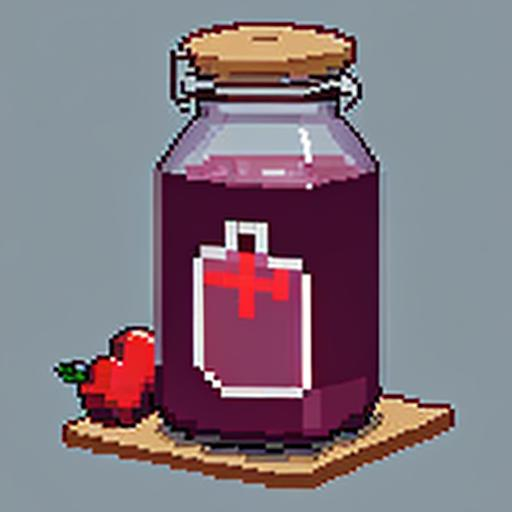
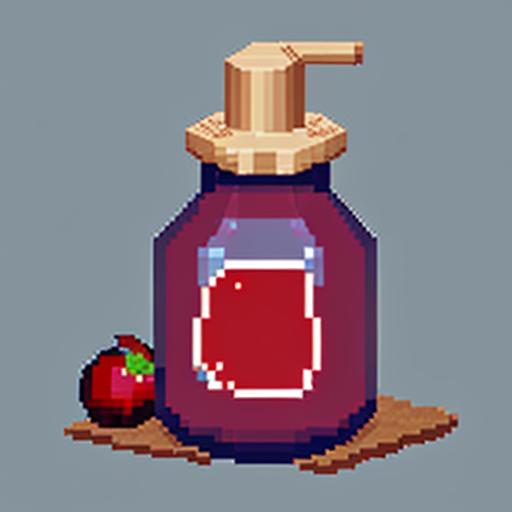
new file:   game_data/health_potion_major.jpg

diff --git a/game.py b/game.py
@@ -17,17 +17,27 @@ class Game:
         self.player = player
         self.player_menu = player_menu
 
-        self.player.inventory.add_item(self.items["Health Potion"])
+        self.player.inventory.add_item(self.items["Minor Health Potion"])
         self.player.inventory.add_item(self.items["Knowledge Potion"])
         self.player.inventory.add_item(self.items["Power Elixir"])
         self.player.inventory.add_item(self.items["Steel Sword"])
         self.player.inventory.add_item(self.items["Steel Armor"])
         self.player.inventory.add_item(self.items["Divine Armor"])
+        self.worlds=assets.load_worlds()
 
-        self.background, self.bg_rect = self.asets.load_background("game_data/bg.png")
-        self.collision_map = self.asets.load_collision("game_data/bg.png")
+        self.background, self.bg_rect = self.asets.load_background(self.worlds[self.player.current_world]["collision_set"])
+        self.collision_map = self.asets.load_collision(self.worlds[self.player.current_world]["background"])
         self.map_height = self.collision_map.shape[0]
         self.map_width = self.collision_map.shape[1]
+        self.world_objects={}
+        
+        for data in self.worlds[self.player.current_world]["items"]:
+            item=self.items[data["type"]]
+            img, img_rect=self.asets.load_images(item["image"], (64,64), tuple(data["position"]))
+            self.world_objects[img]=img_rect
+            print(img)
+            
+                    
         self.clock = pygame.time.Clock()
         self.target_fps = 60
 
@@ -204,5 +214,6 @@ class Game:
         self.player.draw(self.screen)
         self.menu.render()
         self.player_menu.render()
-        # self.screen.blit(self.image, self.image_rect.topleft)
+        for x in self.world_objects:
+            self.screen.blit(x, self.world_objects[x].topleft)
         pygame.display.flip()

diff --git a/asset_loader.py b/asset_loader.py
@@ -66,4 +66,11 @@ class AssetLoader:
             effects = {effect["stat"]: effect for effect in effects_data["effects"]}
         return effects
     
+    def load_worlds(self):
+        worlds=np.array({})
+        with open("game_data/leveldata.json", "r") as world_file:
+            world_data = json.load(world_file)
+            worlds = {world["name"]: world for world in world_data["worlds"]}
+        return worlds
+    
     #https://www.youtube.com/watch?v=vOn0z0IRVN8&list=PLI2unizewPmmLdFX9kTGPSnXJJCiasCw5&index=64&ab_channel=Nazareth-Topic

diff --git a/player.py b/player.py
@@ -12,6 +12,7 @@ class Player:
         self.inventory = Inventory()
         self.level = LevelingSystem(assets)
         self.effects = Effects(assets)
+        self.current_world=f"Dream World"
 
         self.player, self.player_rect = assets.load_player(
             path, (screen_width // 2, screen_height // 2)
